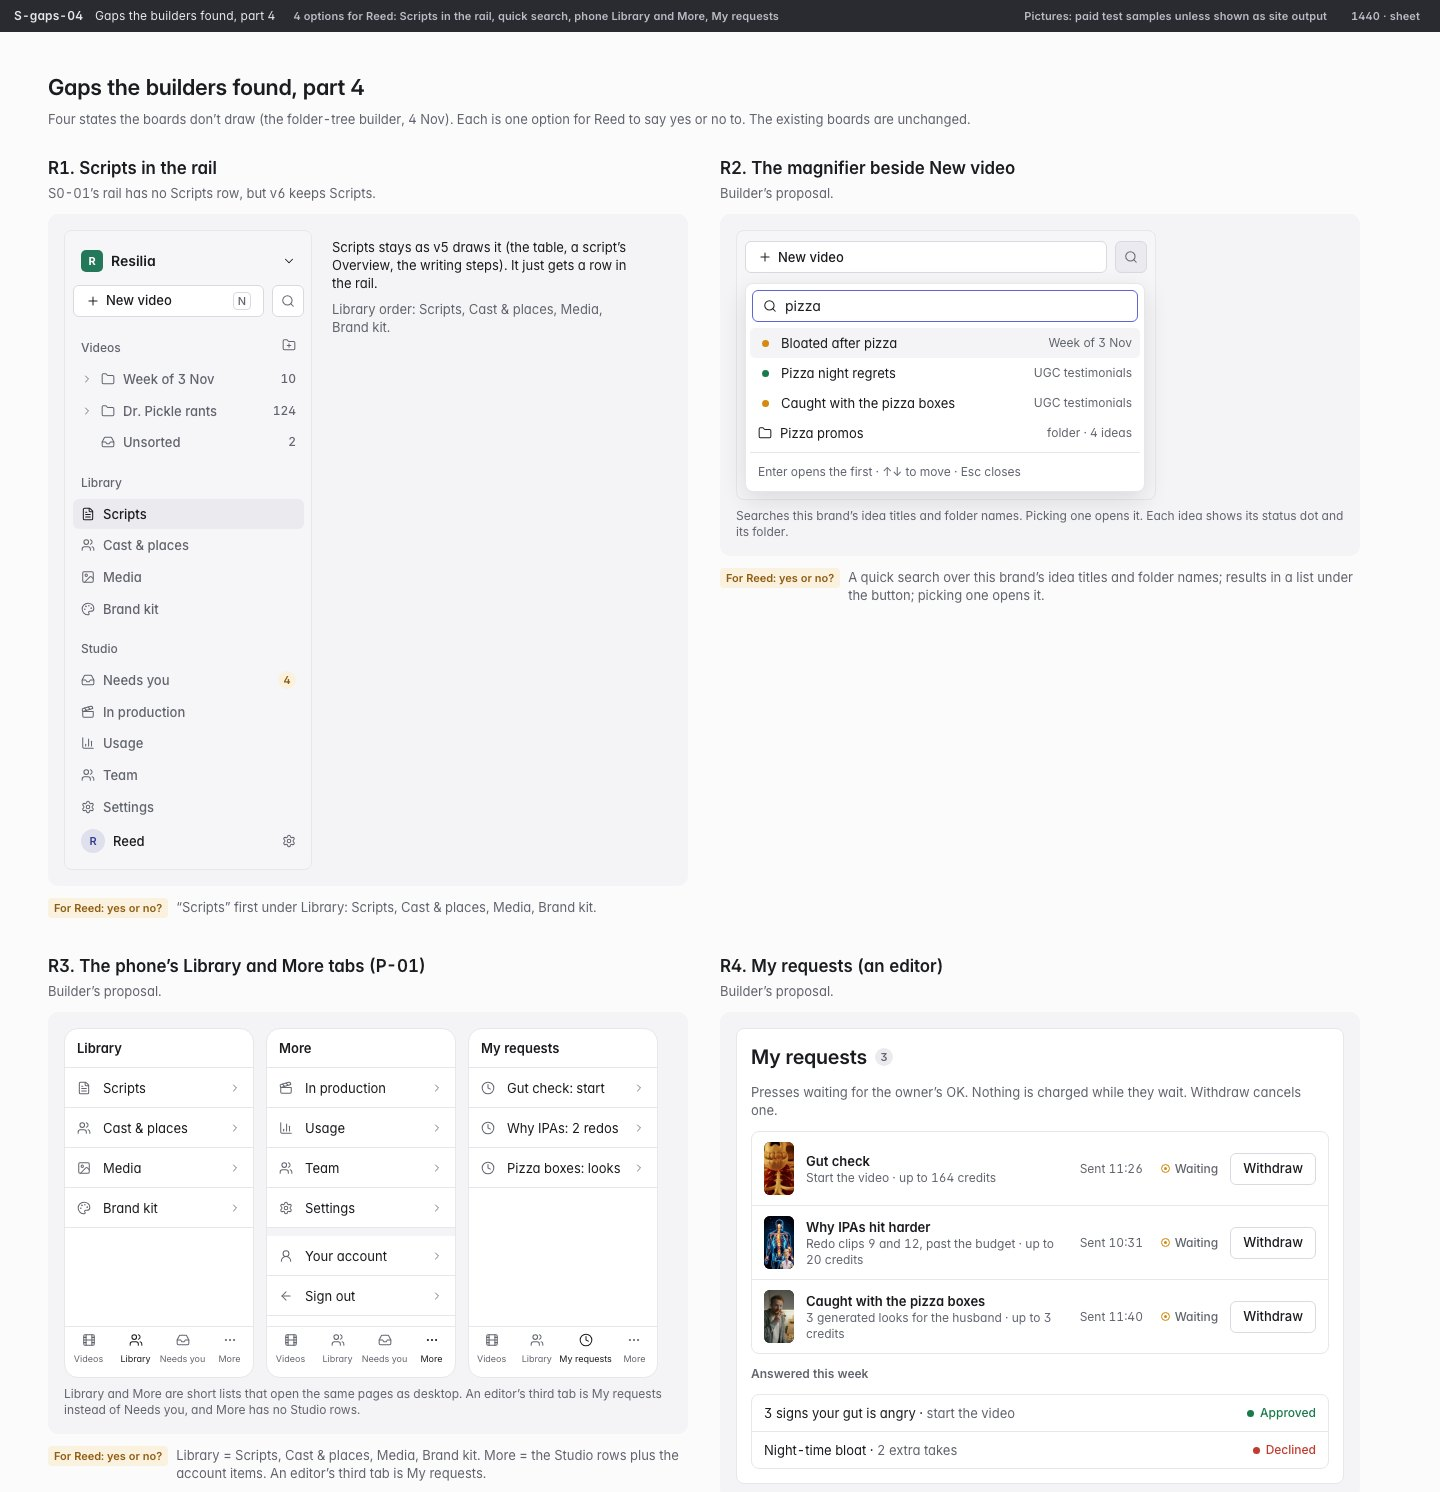
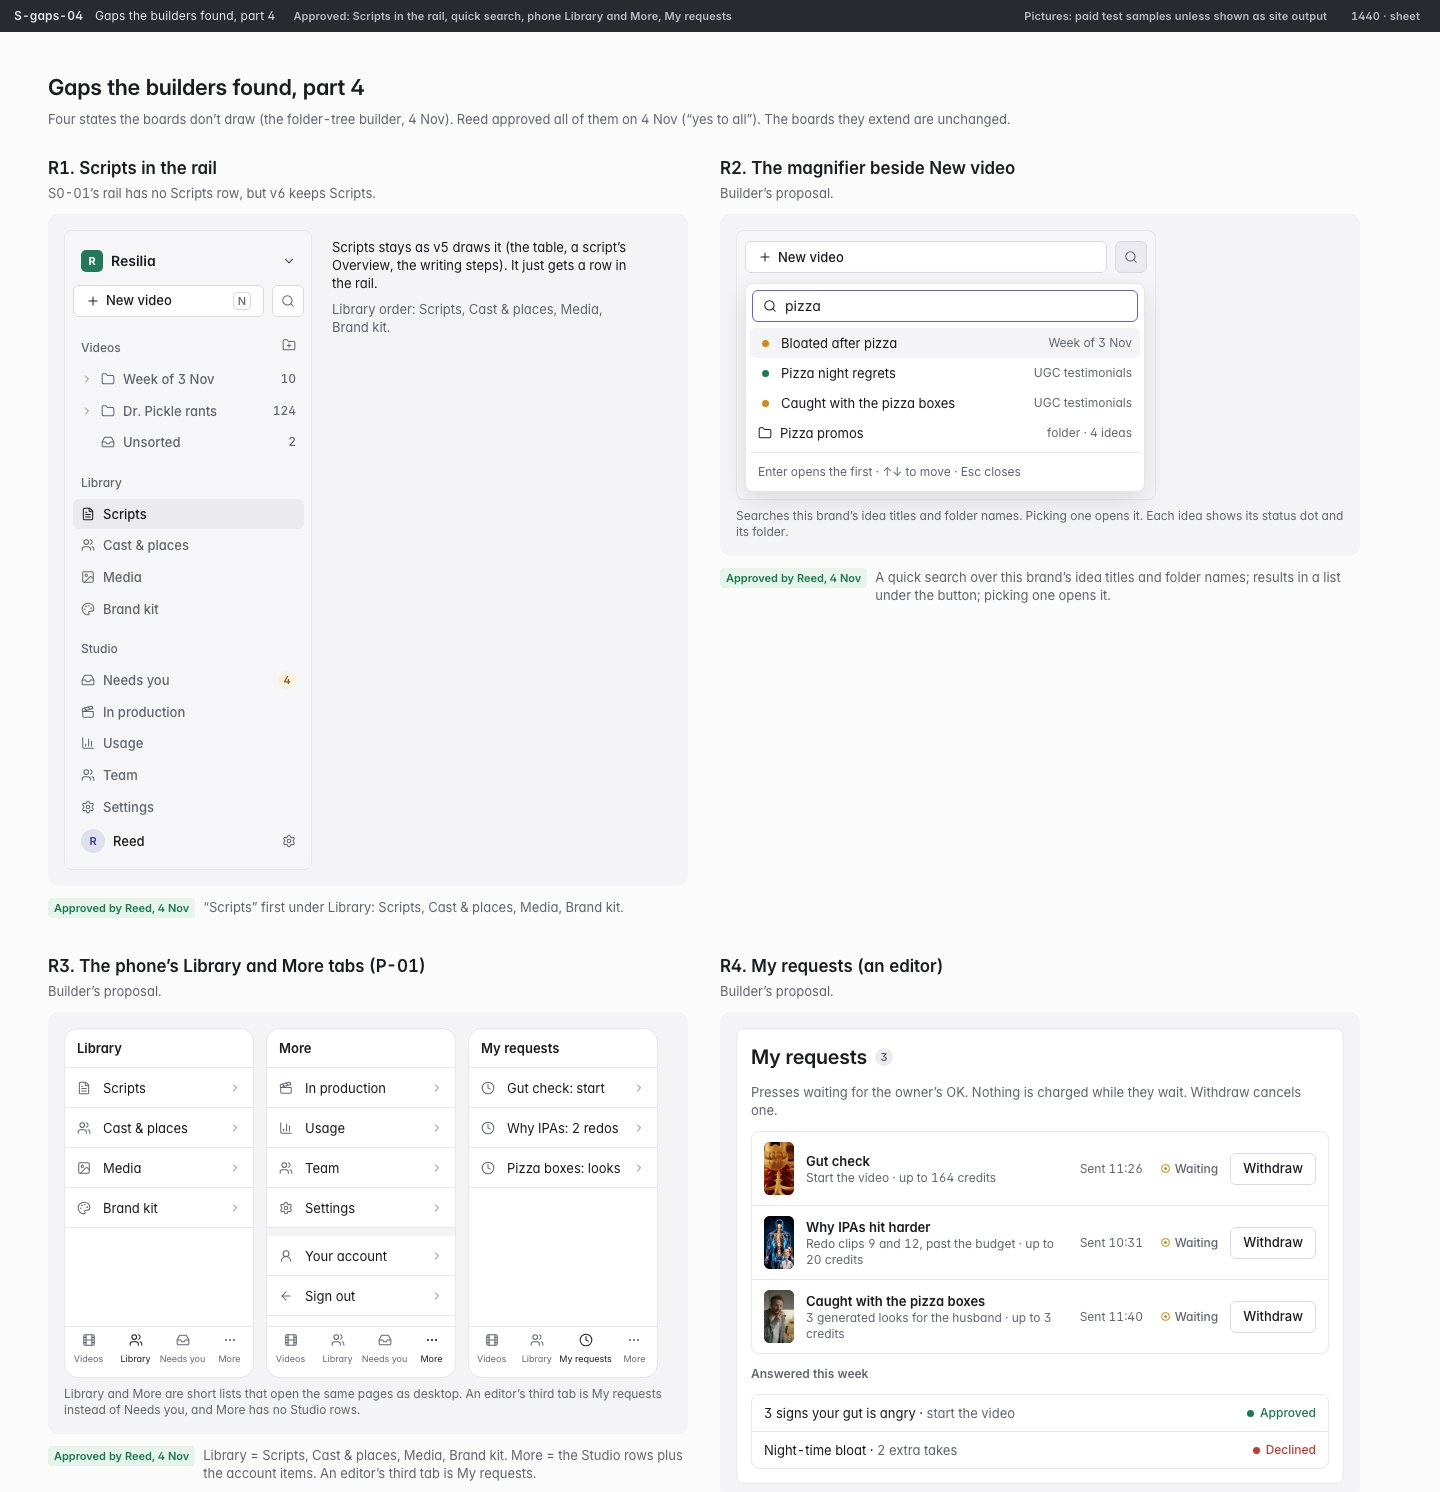
v6: S-gaps-04 approved by Reed ("yes to all")

diff --git a/docs/design/v6/src/b_gaps4.py b/docs/design/v6/src/b_gaps4.py
@@ -8,7 +8,7 @@ def cell(n, title, ask, drawn, note):
     return f'''<div class="col g3" style="width:{W}px">
       <div class="col g1"><span class="t-lg">{n}. {title}</span><span class="t-sm muted">{ask}</span></div>
       <div style="padding:16px;background:var(--surface-2);border-radius:10px;position:relative">{drawn}</div>
-      <div class="row g2 t-sm start"><span class="tag need" style="flex:none">For Reed: yes or no?</span><span class="muted">{note}</span></div></div>'''
+      <div class="row g2 t-sm start"><span class="tag ok" style="flex:none">Approved by Reed, 4 Nov</span><span class="muted">{note}</span></div></div>'''
 
 
 def rail_box(r, h=640):
@@ -58,7 +58,7 @@ g4 = f'''<div style="background:var(--surface);border:1px solid var(--border);bo
   <span class="t-sm muted">Presses waiting for the owner’s OK. Nothing is charged while they wait. Withdraw cancels one.</span>
   <div class="list">{rq}</div><span class="t-xs w6 muted">Answered this week</span><div class="list">{done}</div></div>'''
 
-sheet = f'''<div class="col g2" style="margin-bottom:28px"><span class="t-2xl">Gaps the builders found, part 4</span><span class="t-sm muted">Four states the boards don’t draw (the folder-tree builder, 4 Nov). Each is one option for Reed to say yes or no to. The existing boards are unchanged.</span></div>
+sheet = f'''<div class="col g2" style="margin-bottom:28px"><span class="t-2xl">Gaps the builders found, part 4</span><span class="t-sm muted">Four states the boards don’t draw (the folder-tree builder, 4 Nov). Reed approved all of them on 4 Nov (“yes to all”). The boards they extend are unchanged.</span></div>
   <div class="row g8 wrap start" style="row-gap:36px">
   {cell("R1", "Scripts in the rail", "S0-01’s rail has no Scripts row, but v6 keeps Scripts.", g1, "“Scripts” first under Library: Scripts, Cast & places, Media, Brand kit.")}
   {cell("R2", "The magnifier beside New video", "Builder’s proposal.", g2, "A quick search over this brand’s idea titles and folder names; results in a list under the button; picking one opens it.")}
@@ -66,4 +66,4 @@ sheet = f'''<div class="col g2" style="margin-bottom:28px"><span class="t-2xl">G
   {cell("R4", "My requests (an editor)", "Builder’s proposal.", g4, "A small page listing the editor’s presses waiting for the owner, each with Withdraw, and this week’s answers. Credits only.")}
   </div>'''
 
-board("S-gaps-04", "Gaps the builders found, part 4", "4 options for Reed: Scripts in the rail, quick search, phone Library and More, My requests", sheet, "s", h=1460)
+board("S-gaps-04", "Gaps the builders found, part 4", "Approved: Scripts in the rail, quick search, phone Library and More, My requests", sheet, "s", h=1460)
